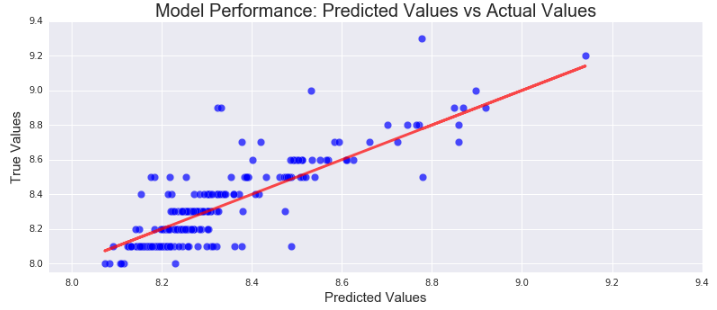
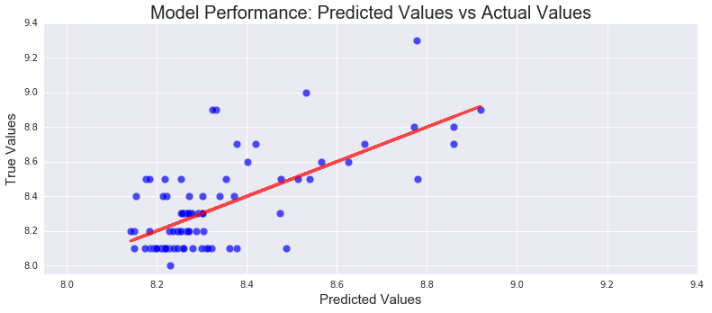
blog update week 7

diff --git a/_posts/2016-07-20-imdb-top-250.md b/_posts/2016-07-20-imdb-top-250.md
@@ -45,9 +45,11 @@ Various tree-based methods were used to develop the model including Decision Tre
 
 Given apprehensions around the total volume of end features (which was close to 1900), various feature selection models were tested as well. This included using SelectKBest to identify the top features, and manually extracting features (e.g. plot keywords were left off in one iteration).
 
-The best performing model based resulted in a a R-squared of .72 , using Gradient Boost model, and all features:
+The best performing model based resulted in a a R-squared of .48 , using Gradient Boost model, and all features:
 
 ![model_predict](http://yoyoyokatty.github.io/images_kl/project6-imdb/model_predict.png)
+
+Given the low R-squared, there definitely is room for improvement to further improve the model. 
 
 ---
 
@@ -74,8 +76,10 @@ The second most important feature was the Year of Release - all other features o
 
 ### What's Next?
 
-This first iteration of the model performed relatively well at a .72 R-squared, however there is always room for improvement.
+This first iteration of the model performed poorly at a .48 R-squared. With a total of 1,898 features and 250 target variables, it was unsurprising that the result was sub-par.
+
+Most of the next steps should be around reducing the features.
 
 Further analysis could be done on refining our feature selection, including reducing plot keywords to a refined few, to reduce the number of features coming from this macro-feature, and potentially increasing the predictability of plot keywords. 
 
-Additional features could also be added, including scores from other sites, such as Rotten Tomatoes, or Metacritic. 
+Upon refinement, additional features could also be added, including scores from other sites, such as Rotten Tomatoes, or Metacritic. 

diff --git a/about.md b/about.md
@@ -4,4 +4,8 @@ title: About
 permalink: /about/
 ---
 
-**Thinkspace** is just another minimalist Jekyll theme that focuses on technical writing. Designed for engineers to write their ranting and findings.
+Katty Lein is a student at General Assembly's Data Science Immersive student.
+
+This is a centralized hub for all project related work.
+
+Please note, everything is currently a work in progress!
